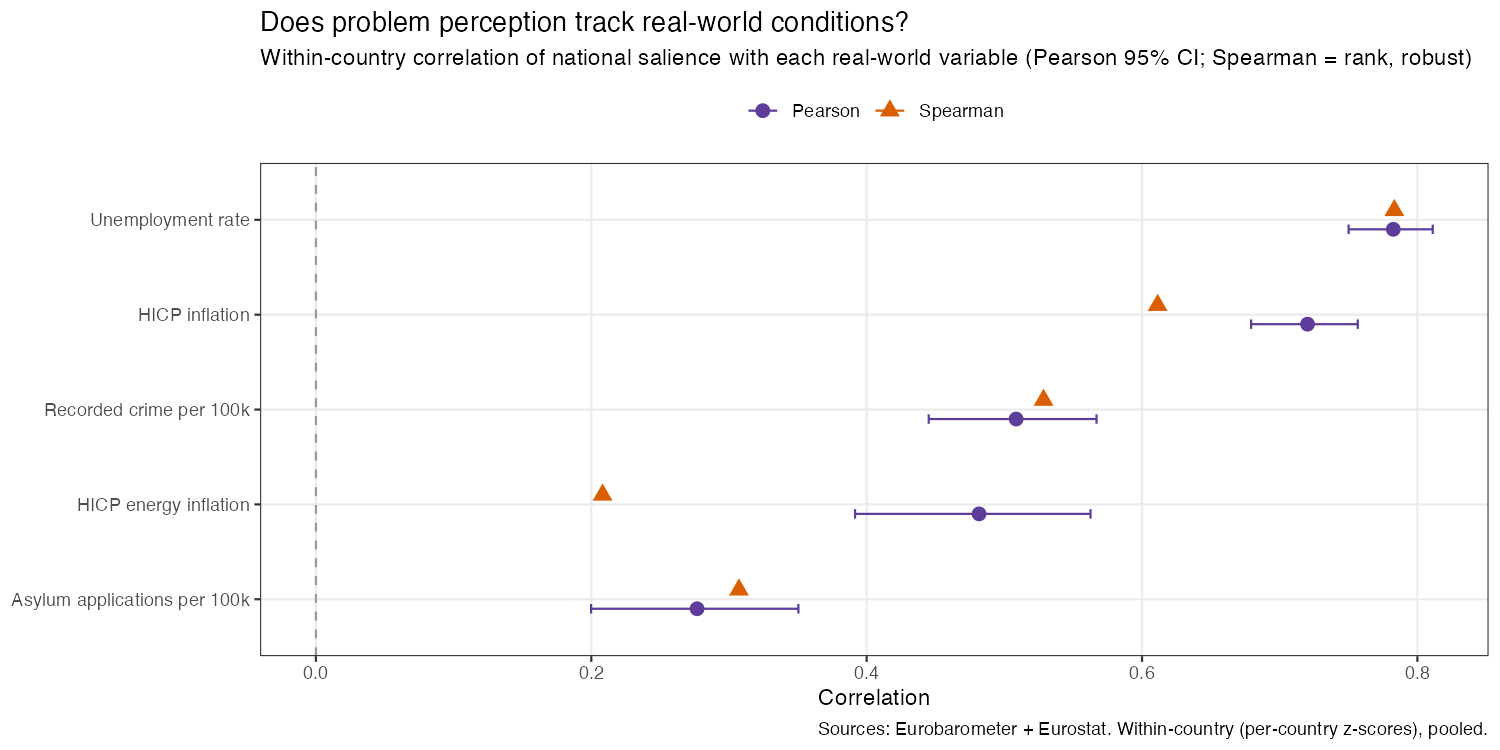
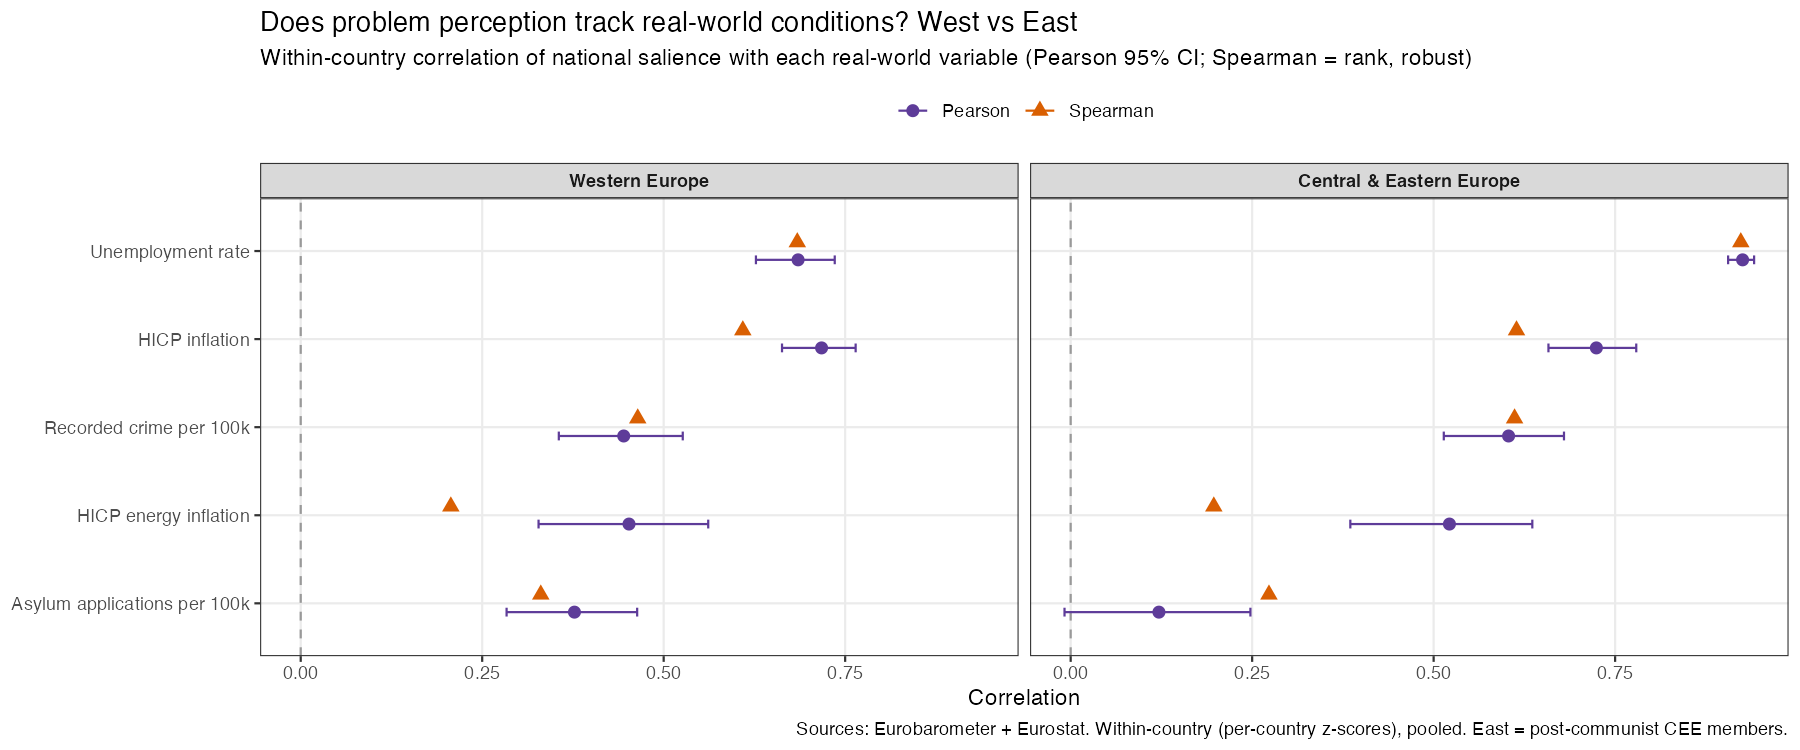
Split correlation summary by West vs East Europe
04 now computes within-country correlations per region (All / Western / CEE);
correlation_summary.png facets West vs East. Finding: economic issues track
reality as well or better in the East (unemployment 0.93 vs 0.69), but
immigration reverses (West 0.38 vs East 0.12 — decoupled from asylum flows).

diff --git a/docs/analysis.md b/docs/analysis.md
@@ -60,6 +60,14 @@ flows recede, and rises for reasons unrelated to local arrivals.
 **4. Crime tracks moderately** (≈0.52, robust across both measures), though crime
 statistics are annual and sparser than the monthly economic series.
 
+**5. West vs East diverge only on immigration.** Splitting the sample, economic
+problems track reality *as well or better* in Central & Eastern Europe than in the
+West (unemployment 0.93 vs 0.69; crime 0.60 vs 0.44; inflation 0.72 in both). The
+single exception is **immigration**: 0.38 in the West but only **0.12** in the East
+(CI nearly touching zero) — Eastern concern about immigration is largely decoupled
+from actual asylum arrivals and driven by politics, a pattern absent for the
+economic issues.
+
 ## Takeaway
 
 Problem perception is **tightly coupled to economic conditions** (unemployment,

diff --git a/README.md b/README.md
@@ -16,7 +16,7 @@ It harmonises ~70 Eurobarometer waves (2002–2026) into a respondent-level data
 extracts each issue's salience, pulls the matching Eurostat series, and reports the
 within-country correlation between perception and reality.
 
-![Does perception track conditions?](output/correlation_summary.png)
+![Does perception track conditions? West vs East](output/correlation_summary.png)
 
 📄 **Write-up:** [How closely does problem perception track reality?](docs/analysis.md)
 
@@ -35,6 +35,11 @@ Perception tracks **economic** conditions closely and **immigration** loosely:
 Adding **Spearman** alongside Pearson matters: the energy link nearly halves under
 rank correlation (0.49 → 0.24), revealing it is driven by the single 2022 energy-price
 spike rather than a steady relationship. Unemployment and crime are robust to it.
+
+**West vs East:** economic problems track reality *as well or better* in Central &
+Eastern Europe (unemployment 0.93 East vs 0.69 West; crime 0.60 vs 0.44) — but
+**immigration is the mirror image**: 0.38 in the West vs **0.12** in the East, where
+concern is largely decoupled from actual asylum flows and driven by politics instead.
 
 ## What it produces
 